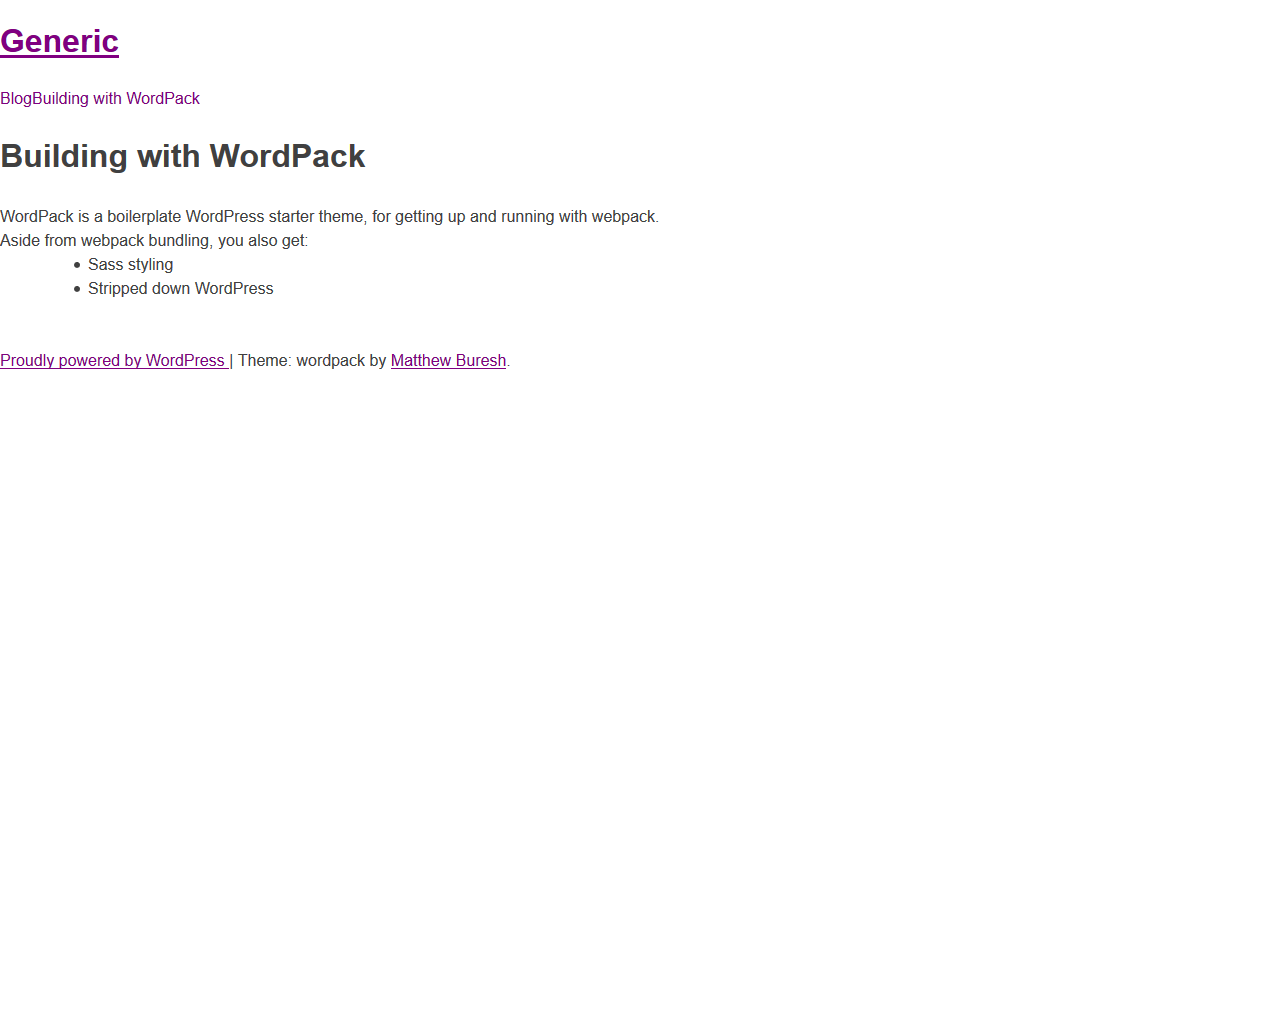
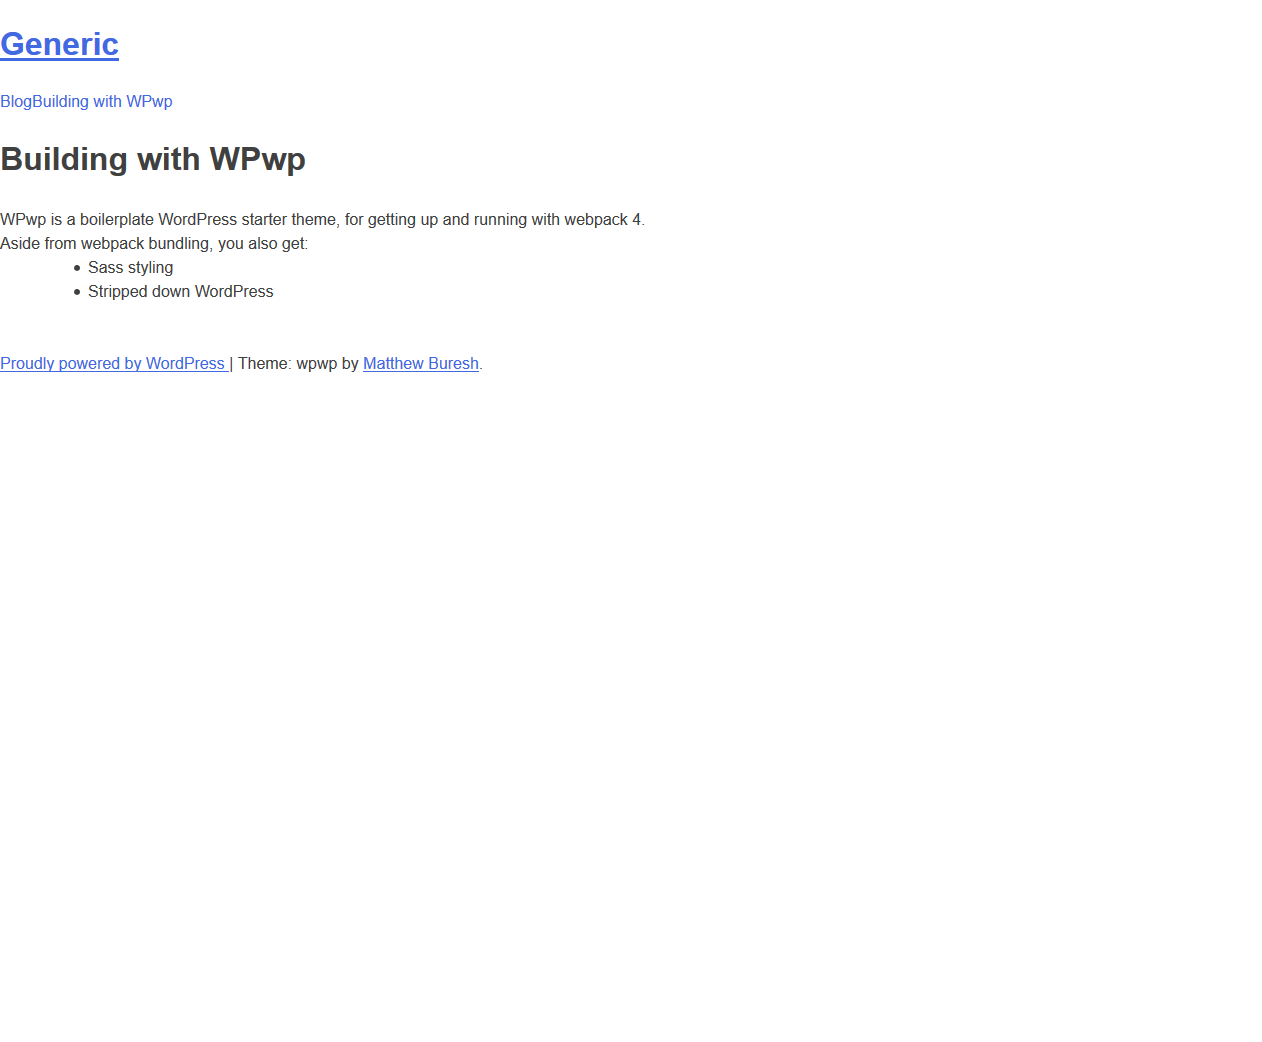
Update readme and screenshot.

Changed region(s): [[0.0, 0.0935, 0.5254, 0.3116], [0.0, 0.3427, 0.4017, 0.3739], [0.0, 0.0312, 0.0927, 0.0623]]

diff --git a/README.md b/README.md
@@ -14,6 +14,8 @@ Pretty much everything. This is real barebones right now.
 
 ## Getting Started
 
+This mostly something I'm putting together for my own purposes, but if you want to check it out here's what you need.
+
 ### Requirements
 
 I've done all of my work with the following setup:
